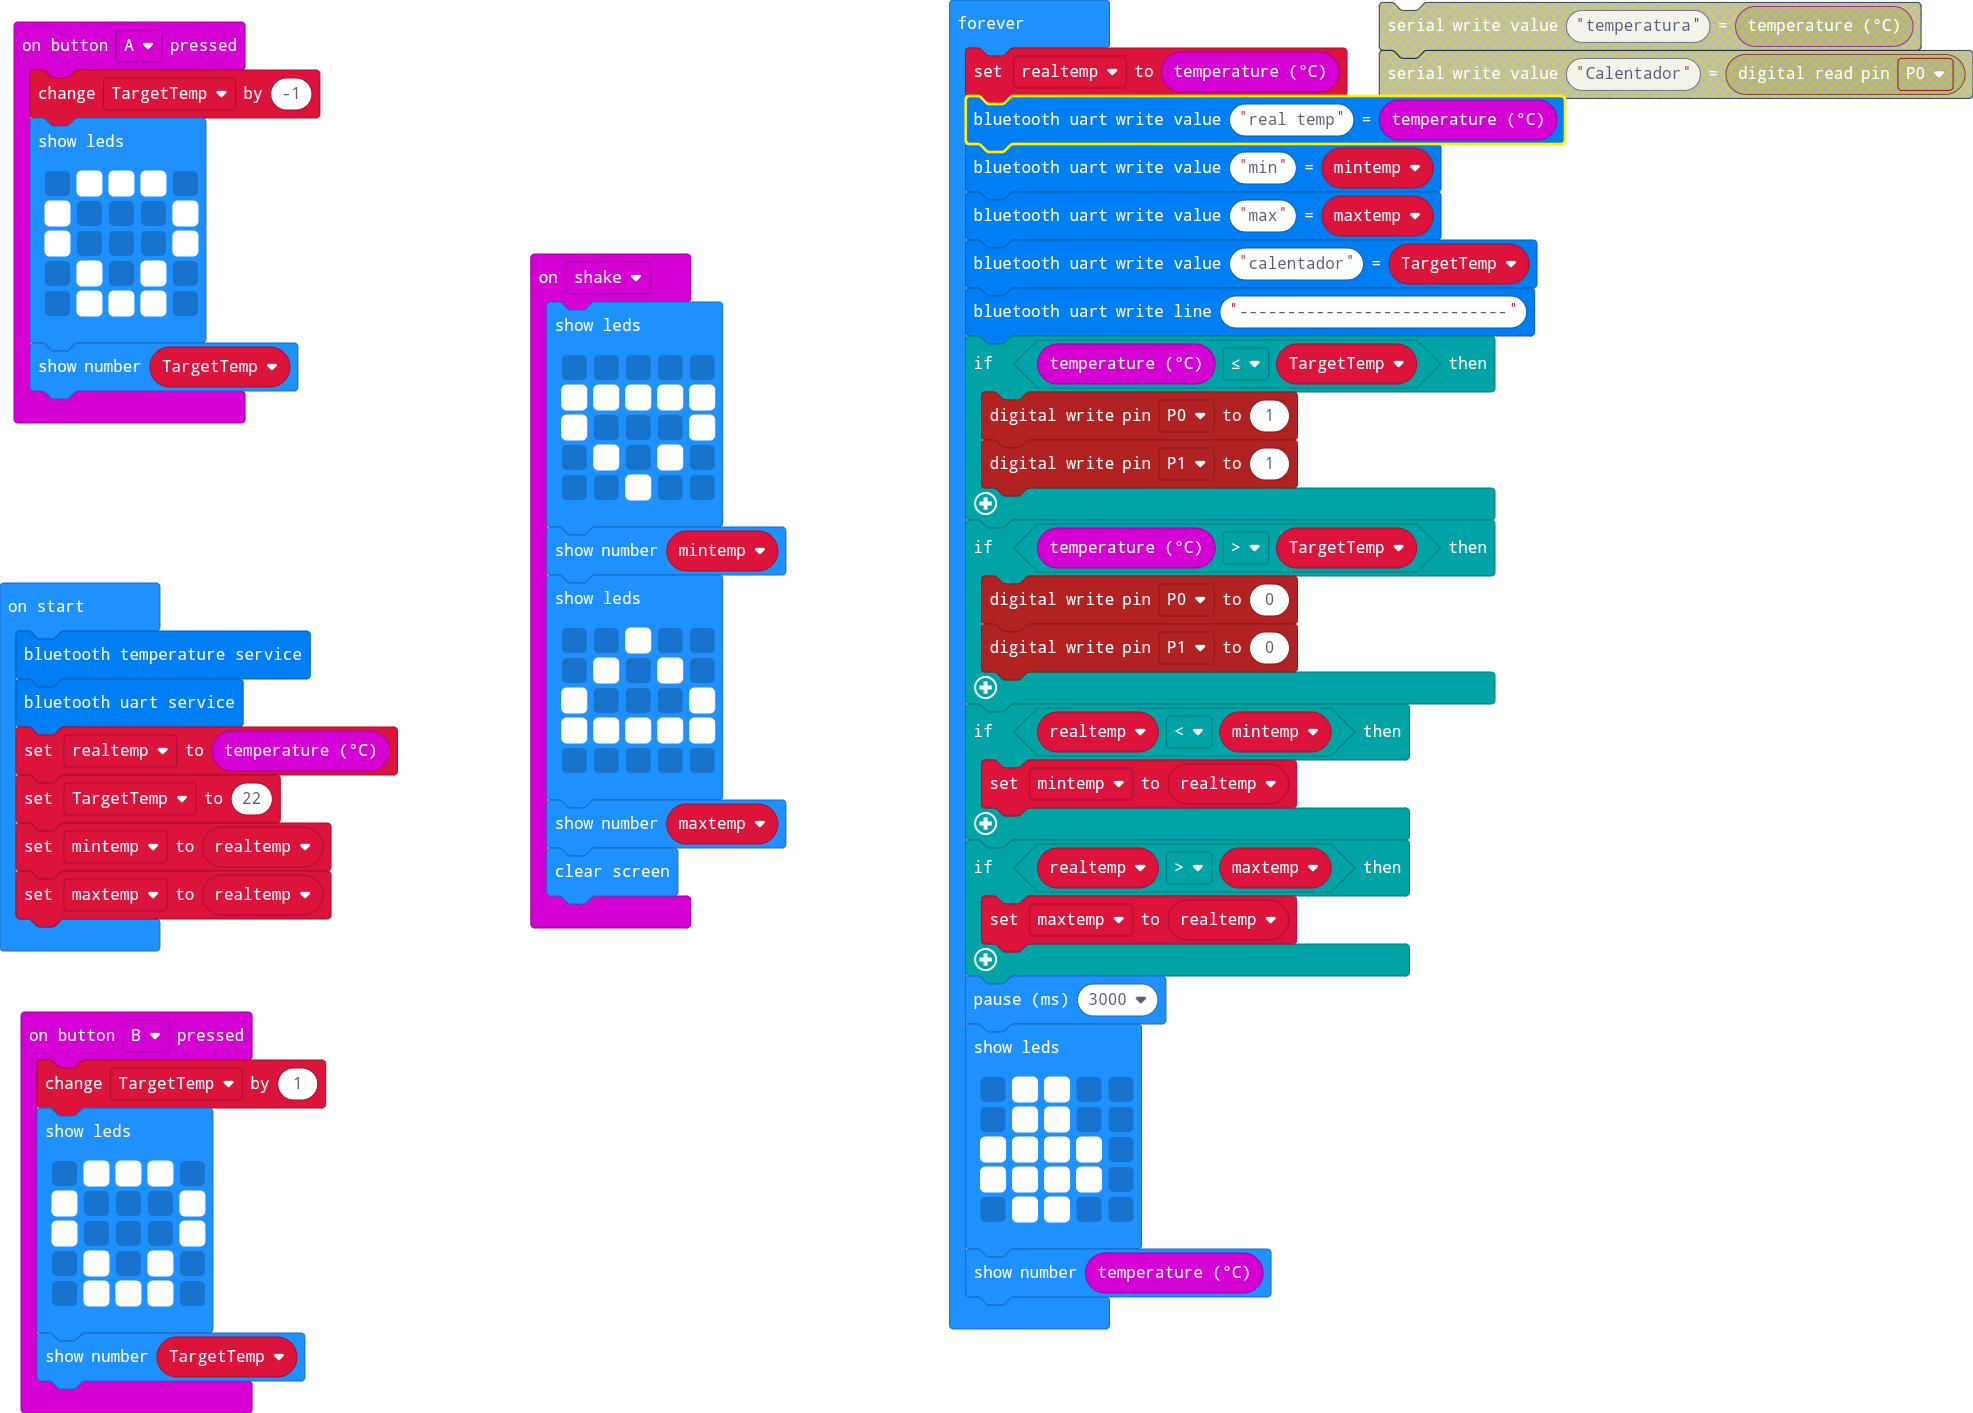
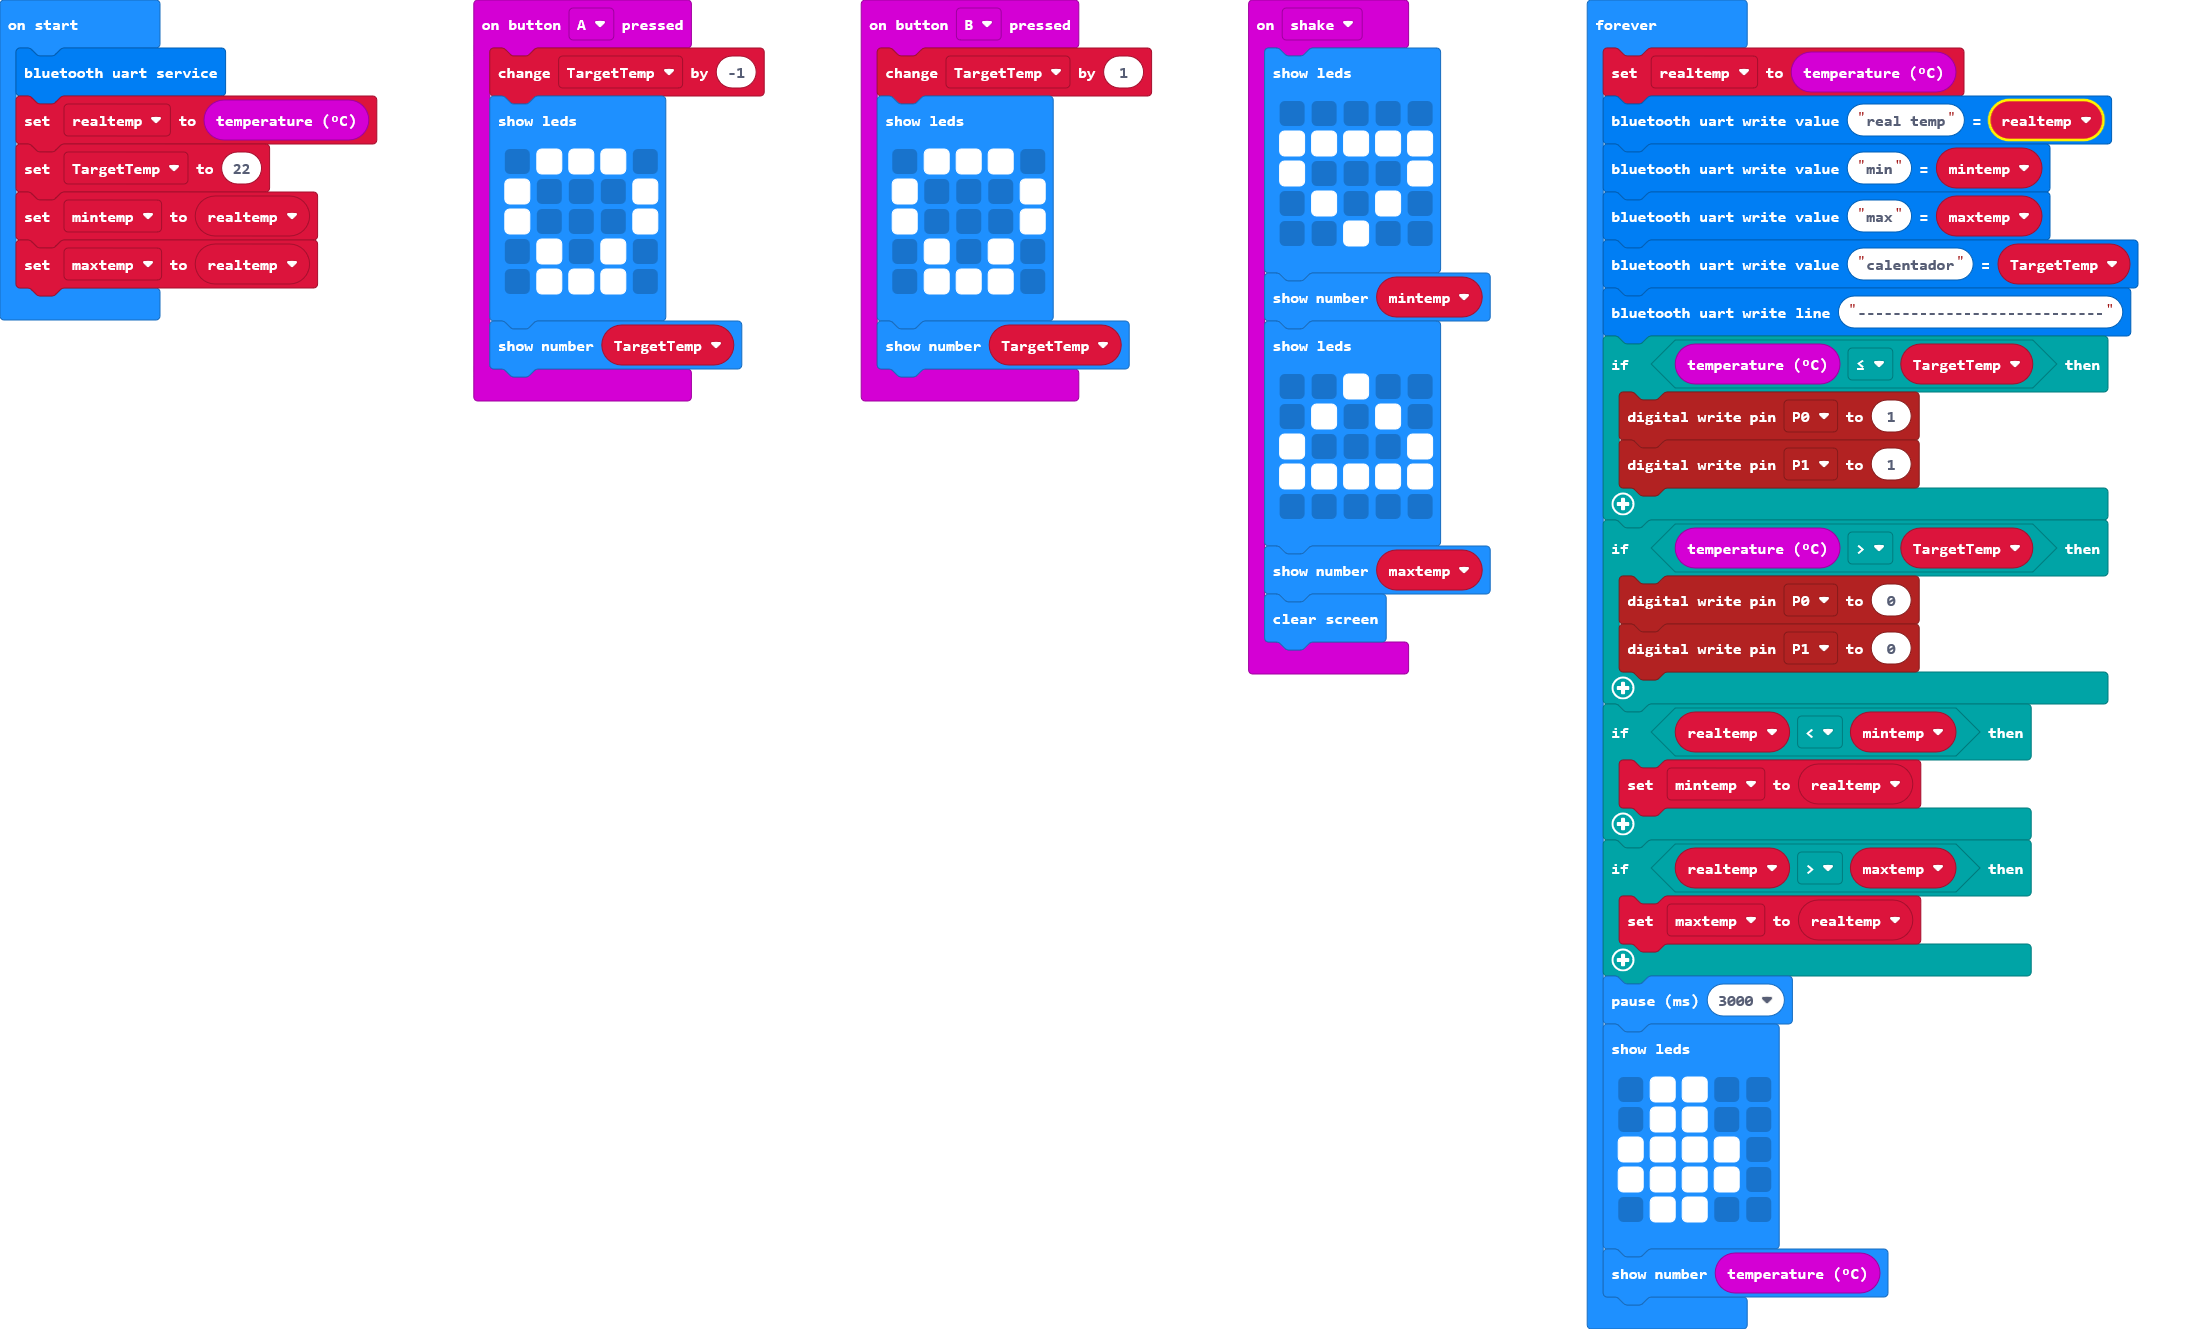
Update main.blocks, main.ts

diff --git a/main.ts b/main.ts
@@ -42,7 +42,6 @@ input.onGesture(Gesture.Shake, function () {
 let maxtemp = 0
 let mintemp = 0
 let TargetTemp = 0
-bluetooth.startTemperatureService()
 bluetooth.startUartService()
 let realtemp = input.temperature()
 TargetTemp = 22
@@ -50,7 +49,7 @@ mintemp = realtemp
 maxtemp = realtemp
 basic.forever(function () {
     realtemp = input.temperature()
-    bluetooth.uartWriteValue("real temp", input.temperature())
+    bluetooth.uartWriteValue("real temp", realtemp)
     bluetooth.uartWriteValue("min", mintemp)
     bluetooth.uartWriteValue("max", maxtemp)
     bluetooth.uartWriteValue("calentador", TargetTemp)
